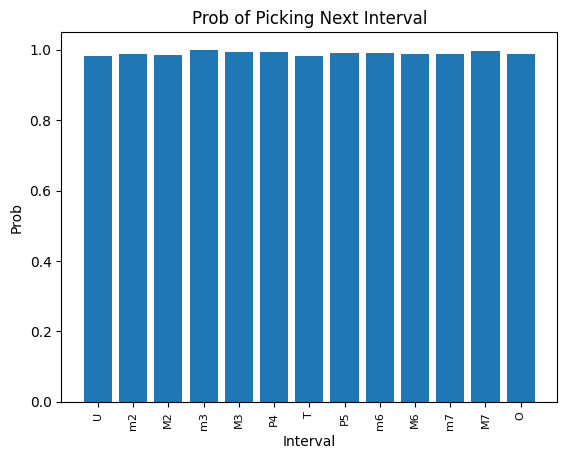
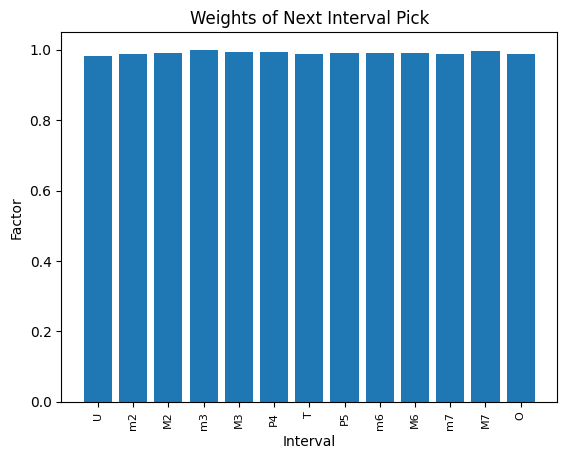
bug fixes

diff --git a/play_intervals.py b/play_intervals.py
@@ -46,7 +46,8 @@ def choose_interval(curr_stats, hist_stats):
     prob_dist = calc_prob_dist_guessmaker(hist_stats)
 
     # add small number to ensure zero one is not zero anymore
-    SMALL_NUM = (1/78)
+    SMALL_NUM = (1/6084) # there are 6084 unique intervals
+
     prob_dist = [x + SMALL_NUM for x in prob_dist]
 
     return random.choices(hist_stats, prob_dist, k=1)[0]
@@ -252,8 +253,10 @@ if __name__ == "__main__":
                     # save to file
                     save_data(saved_data, SAVED_INTERVALS_FILE)
 
-                    # PRINTING AND DRAWING STATS TAKES A LONG TIME (~30s)
-                    # SINCE WE HAVE 6083 INTERVALS. I turned it off for that reason.
+                    # I COMMENED (TURNED OFF) THE BELOW DRAW AND PRINT
+
+                    # # PRINTING AND DRAWING STATS TAKES A LONG TIME (~30s)
+                    # # SINCE WE HAVE 6083 INTERVALS.
 
                     # # every 25x notes print and draw stats
                     # # ~~~~~~~~~~~~~~~~~~~~~~~~~~~~~~
@@ -267,12 +270,12 @@ if __name__ == "__main__":
 
                     #     # draw how im doing as bar chart
                     #     plt.bar([f'{n.get_short_name()}' for n in saved_data], calc_prob_dist_guessmaker(saved_data))
-                    #     plt.title('Prob of Picking Next Interval')
+                    #     plt.title('Weights of Next Interval Pick')
                     #     plt.xlabel('Interval')
                     #     plt.xticks(fontsize=8, rotation=90)
-                    #     plt.ylabel('Prob')
+                    #     plt.ylabel('Factor')
                     #     plt.savefig('next_interval_prob.png', bbox_inches='tight')
-                    # # ~~~~~~~~~~~~~~~~~~~~~~~~~~~~~~
+                    # ~~~~~~~~~~~~~~~~~~~~~~~~~~~~~~
                 else:
                     pass
 

diff --git a/play_notes.py b/play_notes.py
@@ -249,11 +249,11 @@ if __name__ == "__main__":
                         print("~~~~~~~~~~~~~~~~~~~~~~~~~~~~~~~~~~~~~~~~~\n")
 
                         # draw how im doing as bar chart
-                        plt.bar([f'{n.name} ({n.frequency})' for n in sorted_notes], (sorted_notes))
-                        plt.title('Prob of Picking Next Note')
+                        plt.bar([f'{n.name} ({n.frequency})' for n in sorted_notes], calc_prob_dist_guessmaker(sorted_notes))
+                        plt.title('Weights of Next Note Pick')
                         plt.xlabel('Note')
                         plt.xticks(fontsize=8, rotation=90)
-                        plt.ylabel('Prob')
+                        plt.ylabel('Factor')
                         plt.savefig('next_note_prob.png', bbox_inches='tight')
                     # ~~~~~~~~~~~~~~~~~~~~~~~~~~~~~~
                     
